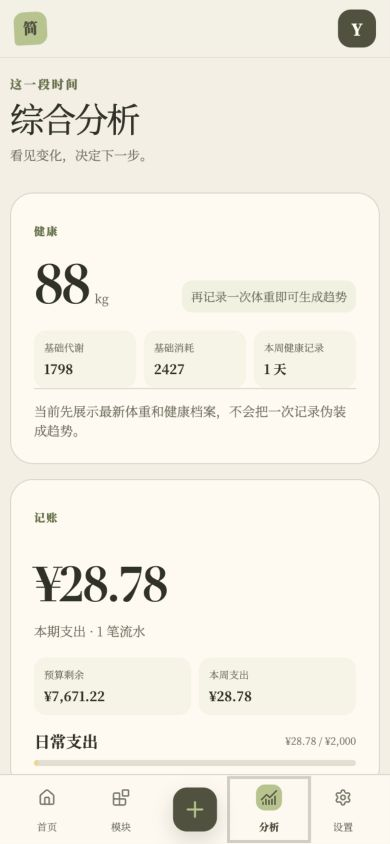
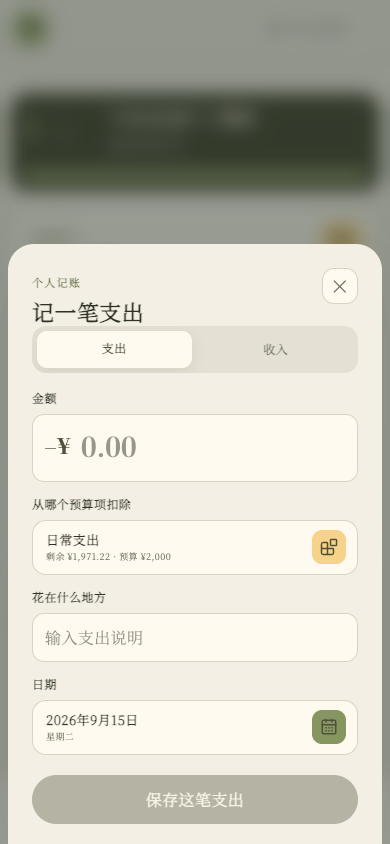
README: real module screenshots, fix captions and tagline

diff --git a/README.md b/README.md
@@ -30,7 +30,7 @@
 - **运动**：记运动项目、时长与预计消耗
 - 首页本周总结自动汇总「吃进去多少、动出去多少、热量差多少」
 
-![健康与记账总结界面](screenshots/health.png)
+![记录体重（健康记录）](screenshots/health.png)
 
 ### 个人记账
 每一笔钱花向哪里，心里有数。
@@ -39,7 +39,7 @@
 - **预算项**：给每份钱起个名字（如固定支出、日常支出）并设限额，支出自动从对应预算里扣，随时看剩余
 - 月度预算总额与起始日设置，首页显示预算剩余与本周支出
 
-![记账与健康分析界面](screenshots/finance.png)
+![记一笔支出（个人记账）](screenshots/finance.png)
 
 ### 成长规划
 把大目标拆成小动作，用 PDCA 循环推进。
@@ -54,6 +54,8 @@
 
 ### 综合分析
 首页与「分析」页自动生成各模块的趋势：体重变化、习惯完成率、收支与预算、成长里程碑，只展示你已启用模块的数据。
+
+![综合分析页](screenshots/analysis.png)
 
 ### AI 智能分析（可选）
 接入你自己的大模型 API Key（支持 **DeepSeek、千问、OpenAI**），开启三个能力：
@@ -150,4 +152,4 @@ npm test                    # 运行测试
 
 ---
 
-> 简行 EasyUp · 简单一点，把日子记清楚
+> 简行 EasyUp · 简单记一点，进步多一点
